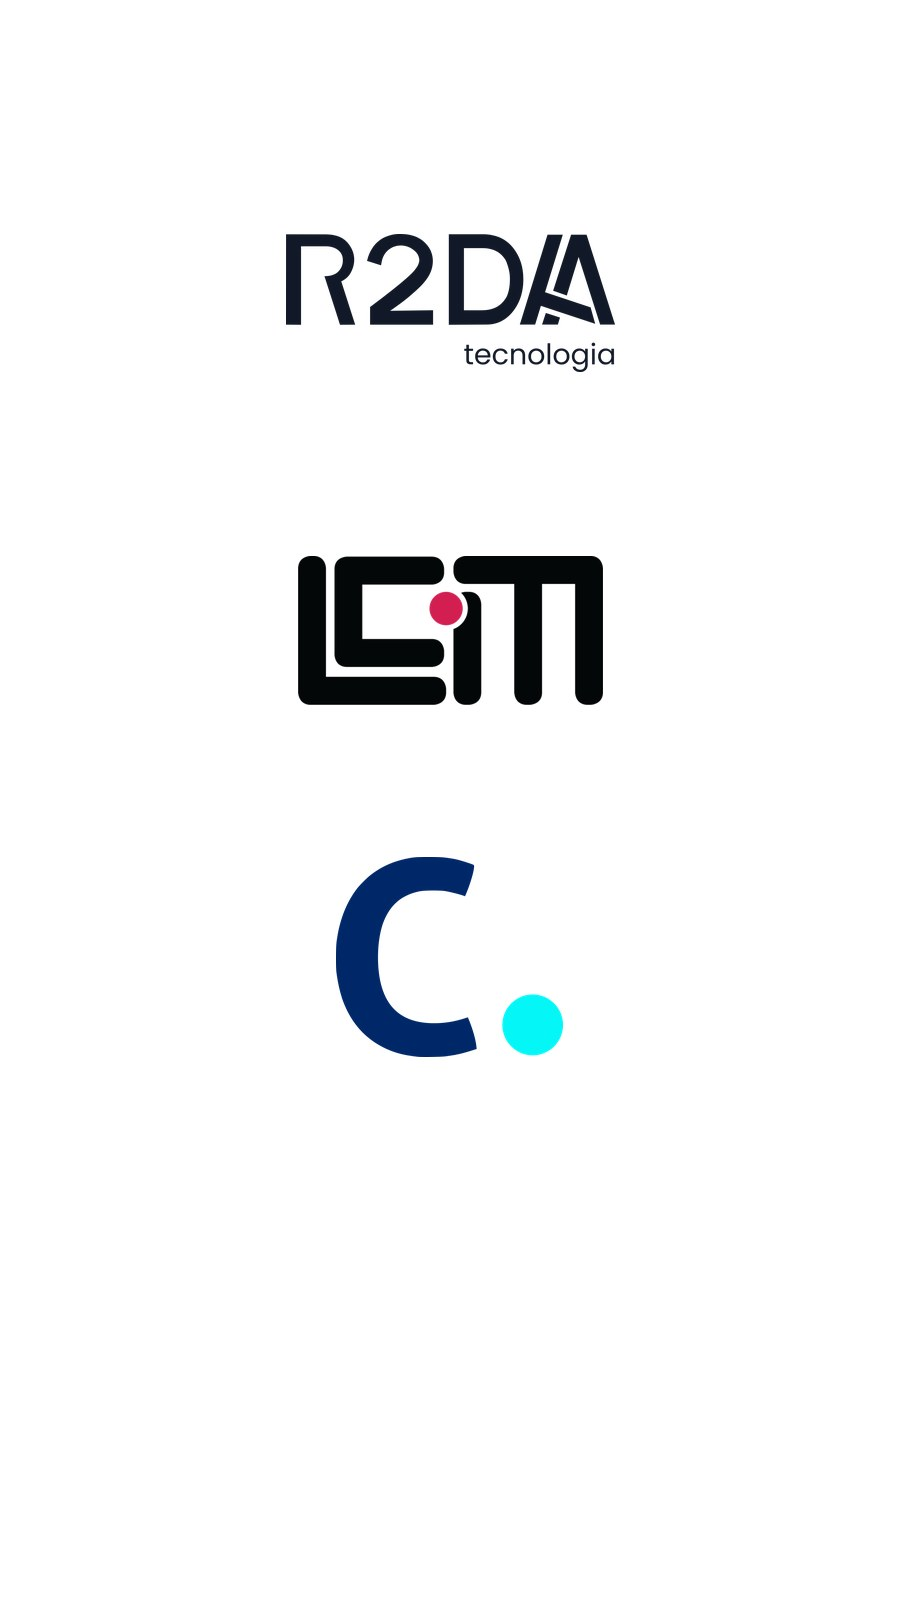
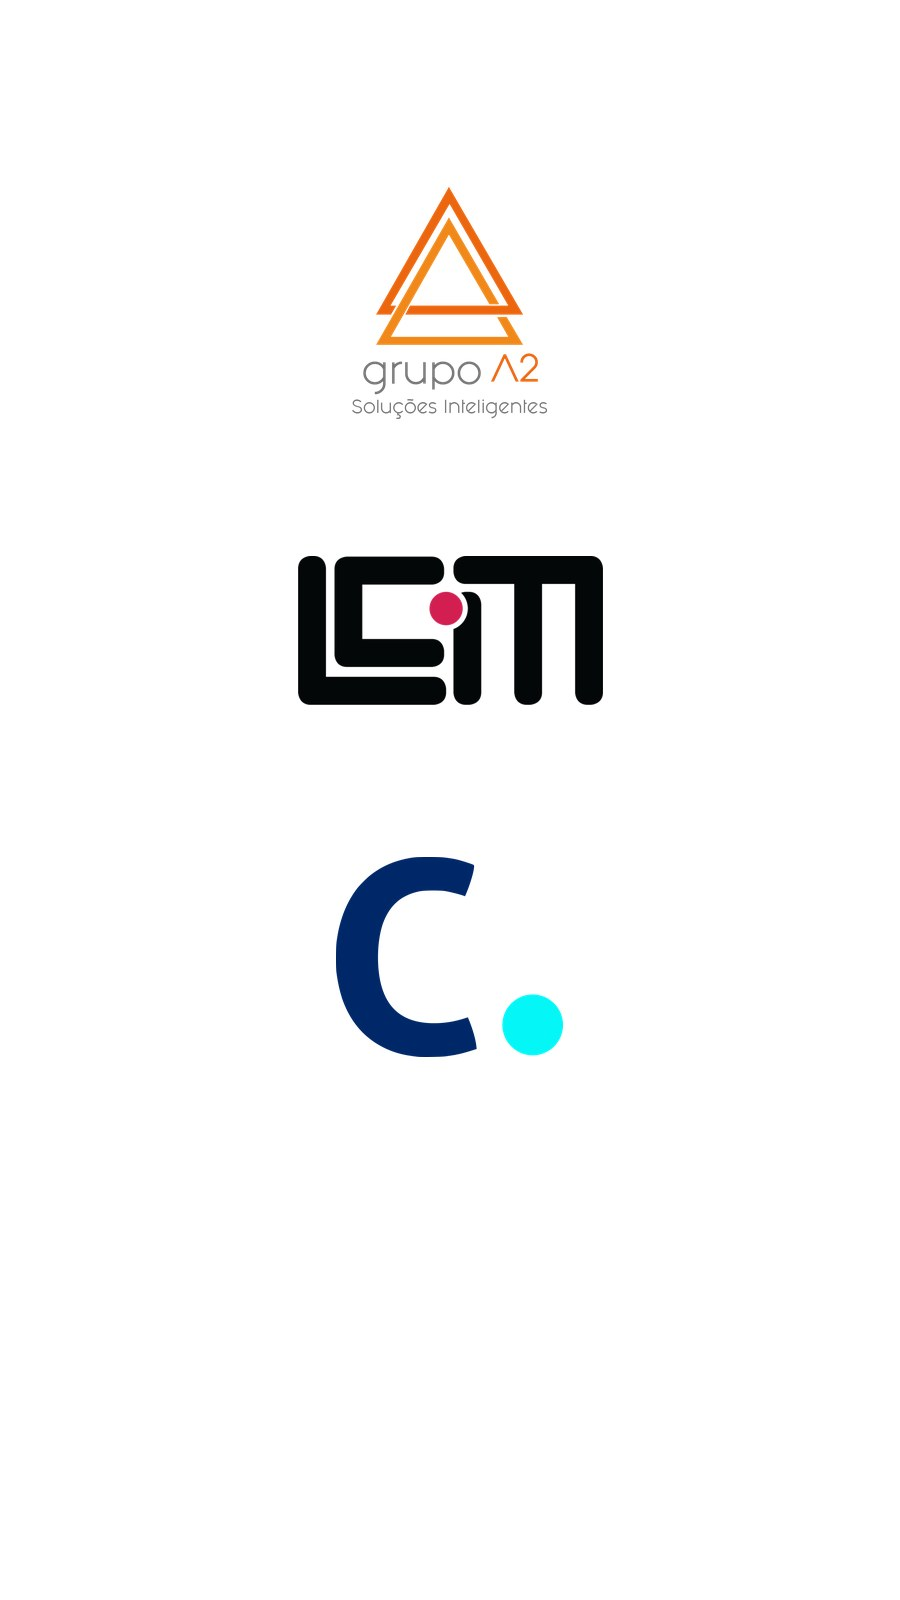
feat: novos slides de realização e apoio no carrossel
- Realização só com a logo da FENAJU, em tamanho grande
- Slide com Governo do Piauí e JUCEPI
- Slide com Governo de Goiás e JUCEG
- Grupo A2 e R2DA trocam de slide
- Gerador de slides aumenta a logo quando ela está sozinha no slide

Changed region(s): [[0.3111, 0.125, 0.6844, 0.2812]]

diff --git a/enaj-2026/index.html b/enaj-2026/index.html
@@ -109,7 +109,7 @@
                             <div class="relative flex min-h-[480px] flex-col items-start justify-end overflow-hidden rounded-xl px-14 py-10 pb-14 md:px-16">
                                 <picture>
                                     <source media="(max-width: 768px)" srcset="assets/img/carrossel/realizacao-mobile.jpg">
-                                    <img src="assets/img/carrossel/realizacao.jpg" alt="Realização: FENAJU e JUCEPI" class="absolute inset-0 h-full w-full object-cover">
+                                    <img src="assets/img/carrossel/realizacao.jpg" alt="Realização: FENAJU" class="absolute inset-0 h-full w-full object-cover">
                                 </picture>
                                 <div class="absolute inset-0 bg-gradient-to-b from-black/40 to-black/50"></div>
                                 <h2 class="relative text-3xl font-black leading-tight tracking-[-0.033em] text-white sm:text-5xl">Realização</h2>
@@ -119,8 +119,30 @@
                         <div class="carousel-slide w-full flex-shrink-0">
                             <div class="relative flex min-h-[480px] flex-col items-start justify-end overflow-hidden rounded-xl px-14 py-10 pb-14 md:px-16">
                                 <picture>
+                                    <source media="(max-width: 768px)" srcset="assets/img/carrossel/apoio-piaui-mobile.jpg">
+                                    <img src="assets/img/carrossel/apoio-piaui.jpg" alt="Apoio: Governo do Piauí e JUCEPI" class="absolute inset-0 h-full w-full object-cover">
+                                </picture>
+                                <div class="absolute inset-0 bg-gradient-to-b from-black/40 to-black/50"></div>
+                                <h2 class="relative text-3xl font-black leading-tight tracking-[-0.033em] text-white sm:text-5xl">Nossos Apoiadores</h2>
+                            </div>
+                        </div>
+
+                        <div class="carousel-slide w-full flex-shrink-0">
+                            <div class="relative flex min-h-[480px] flex-col items-start justify-end overflow-hidden rounded-xl px-14 py-10 pb-14 md:px-16">
+                                <picture>
+                                    <source media="(max-width: 768px)" srcset="assets/img/carrossel/apoio-goias-mobile.jpg">
+                                    <img src="assets/img/carrossel/apoio-goias.jpg" alt="Apoio: Governo de Goiás e JUCEG" class="absolute inset-0 h-full w-full object-cover">
+                                </picture>
+                                <div class="absolute inset-0 bg-gradient-to-b from-black/40 to-black/50"></div>
+                                <h2 class="relative text-3xl font-black leading-tight tracking-[-0.033em] text-white sm:text-5xl">Nossos Apoiadores</h2>
+                            </div>
+                        </div>
+
+                        <div class="carousel-slide w-full flex-shrink-0">
+                            <div class="relative flex min-h-[480px] flex-col items-start justify-end overflow-hidden rounded-xl px-14 py-10 pb-14 md:px-16">
+                                <picture>
                                     <source media="(max-width: 768px)" srcset="assets/img/carrossel/apoiadores-1-mobile.jpg">
-                                    <img src="assets/img/carrossel/apoiadores-1.jpg" alt="Apoiadores: VOX, REGIN e Grupo A2" class="absolute inset-0 h-full w-full object-cover">
+                                    <img src="assets/img/carrossel/apoiadores-1.jpg" alt="Apoiadores: VOX, REGIN e R2DA" class="absolute inset-0 h-full w-full object-cover">
                                 </picture>
                                 <div class="absolute inset-0 bg-gradient-to-b from-black/40 to-black/50"></div>
                                 <h2 class="relative text-3xl font-black leading-tight tracking-[-0.033em] text-white sm:text-5xl">Nossos Apoiadores</h2>
@@ -142,7 +164,7 @@
                             <div class="relative flex min-h-[480px] flex-col items-start justify-end overflow-hidden rounded-xl px-14 py-10 pb-14 md:px-16">
                                 <picture>
                                     <source media="(max-width: 768px)" srcset="assets/img/carrossel/apoiadores-3-mobile.jpg">
-                                    <img src="assets/img/carrossel/apoiadores-3.jpg" alt="Apoiadores: R2DA, LCM e Contabilizei" class="absolute inset-0 h-full w-full object-cover">
+                                    <img src="assets/img/carrossel/apoiadores-3.jpg" alt="Apoiadores: Grupo A2, LCM e Contabilizei" class="absolute inset-0 h-full w-full object-cover">
                                 </picture>
                                 <div class="absolute inset-0 bg-gradient-to-b from-black/40 to-black/50"></div>
                                 <h2 class="relative text-3xl font-black leading-tight tracking-[-0.033em] text-white sm:text-5xl">Nossos Apoiadores</h2>
@@ -177,6 +199,10 @@
                             data-slide-index="3" aria-label="Slide 4"></button>
                         <button class="carousel-dot w-3 h-3 rounded-full bg-white/50 transition-all"
                             data-slide-index="4" aria-label="Slide 5"></button>
+                        <button class="carousel-dot w-3 h-3 rounded-full bg-white/50 transition-all"
+                            data-slide-index="5" aria-label="Slide 6"></button>
+                        <button class="carousel-dot w-3 h-3 rounded-full bg-white/50 transition-all"
+                            data-slide-index="6" aria-label="Slide 7"></button>
                     </div>
                 </section>
 

diff --git a/ferramentas/gerar_slides_apoiadores.py b/ferramentas/gerar_slides_apoiadores.py
@@ -25,10 +25,12 @@ PASTA_SAIDA = RAIZ / "enaj-2026" / "assets" / "img" / "carrossel"
 
 # nome do arquivo de saída -> logos do slide (arquivos em assets/logos)
 SLIDES = {
-    "realizacao": ["fenaju.png", "jucepi-horizontal.png"],
-    "apoiadores-1": ["vox.webp", "logo_regin_tributos.png", "grupoA2.png"],
+    "realizacao": ["fenaju.png"],
+    "apoio-piaui": ["governo-piaui.png", "jucepi-horizontal.png"],
+    "apoio-goias": ["governo-goias.png", "juceg.png"],
+    "apoiadores-1": ["vox.webp", "logo_regin_tributos.png", "logor2da-escura.svg"],
     "apoiadores-2": ["nuclea.png", "nic.png", "altura.png"],
-    "apoiadores-3": ["logor2da-escura.svg", "lcm.png", "contabilizei.svg"],
+    "apoiadores-3": ["grupoA2.png", "lcm.png", "contabilizei.svg"],
 }
 
 # (largura, altura) da arte e área ocupada pelas logos: (x, y, largura, altura)
@@ -80,9 +82,12 @@ def carregar_logo(nome):
     return imagem.crop(imagem.getbbox())
 
 
-def redimensionar(logo, largura_max, altura_max):
-    """Equilibra o peso visual: logos largas e quadradas ocupam áreas parecidas."""
-    area_alvo = largura_max * altura_max * 0.42
+def redimensionar(logo, largura_max, altura_max, ocupacao):
+    """Equilibra o peso visual: logos largas e quadradas ocupam áreas parecidas.
+
+    `ocupacao` é a fração da área disponível que a logo deve ocupar.
+    """
+    area_alvo = largura_max * altura_max * ocupacao
     escala = min(
         largura_max / logo.width,
         altura_max / logo.height,
@@ -95,14 +100,16 @@ def montar_slide(logos, formato):
     arte = Image.new("RGB", formato["tamanho"], FUNDO)
     x0, y0, largura, altura = formato["area"]
     quantidade = len(logos)
+    # Logo sozinha no slide (ex.: Realização) aparece grande
+    ocupacao = 0.9 if quantidade == 1 else 0.42
 
     for i, logo in enumerate(logos):
         if formato["direcao"] == "linha":
             celula = (x0 + i * largura / quantidade, y0, largura / quantidade, altura)
-            logo = redimensionar(logo, celula[2] * 0.82, altura * 0.62)
+            logo = redimensionar(logo, celula[2] * 0.82, altura * 0.62, ocupacao)
         else:
             celula = (x0, y0 + i * altura / quantidade, largura, altura / quantidade)
-            logo = redimensionar(logo, largura * 0.82, celula[3] * 0.72)
+            logo = redimensionar(logo, largura * 0.82, celula[3] * 0.72, ocupacao)
         cx, cy, cl, ca = celula
         posicao = (round(cx + (cl - logo.width) / 2), round(cy + (ca - logo.height) / 2))
         arte.paste(logo, posicao, logo)
